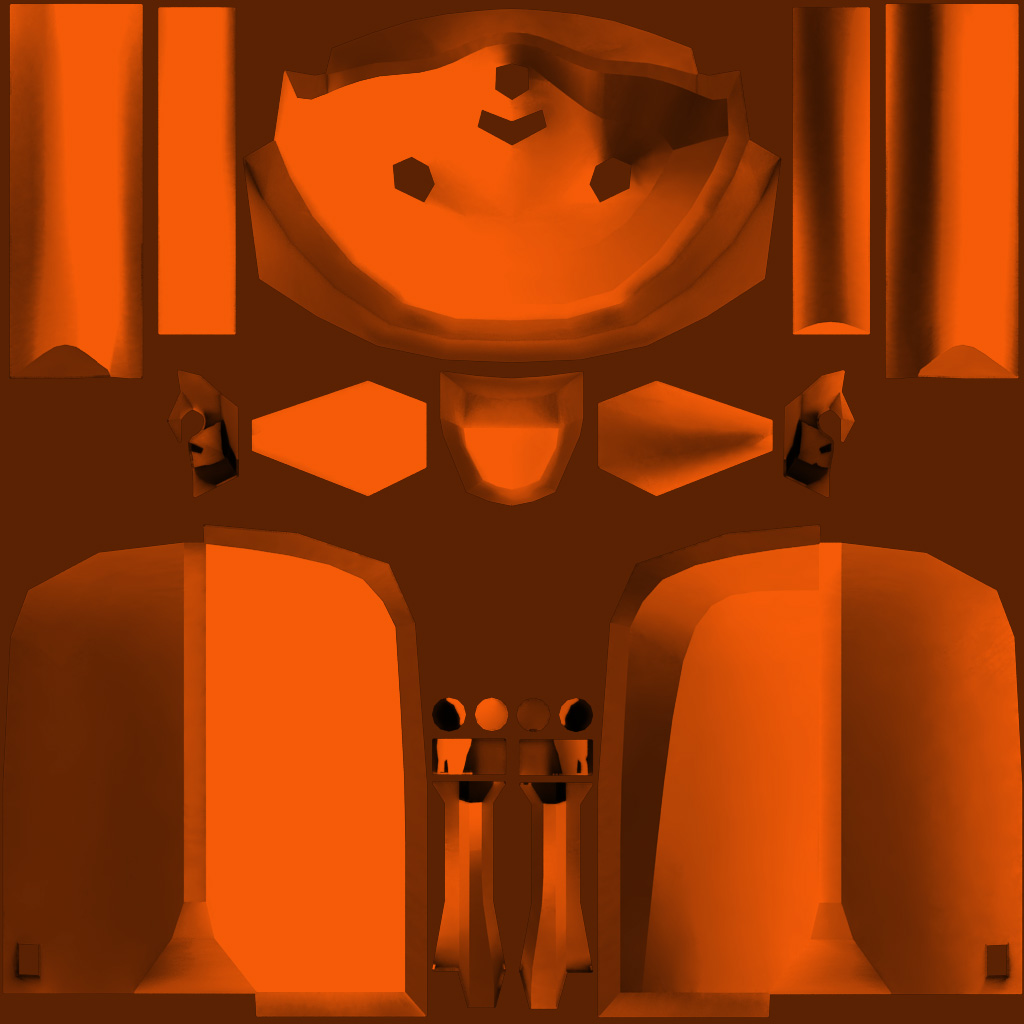
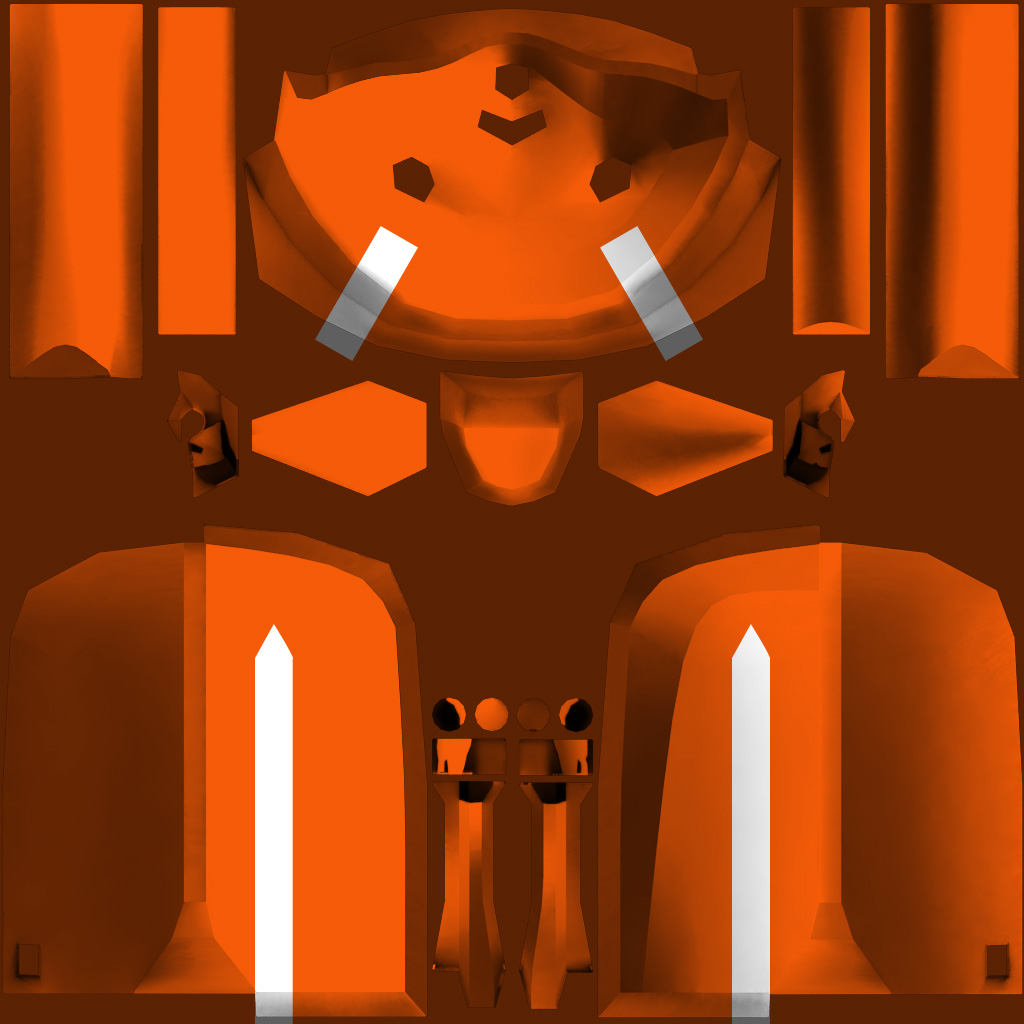
up

diff --git a/js/v3d.js b/js/v3d.js
@@ -115,7 +115,7 @@ V3D.View.prototype = {
 	    mats['c3'] = new V3D.Shader(img, 0x43B8CC);//new THREE.MeshBasicMaterial( { color:0x43B8CC, name:'c3' } );
 	    mats['c4'] = new V3D.Shader(img, 0x059BB5);//new THREE.MeshBasicMaterial( { color:0x059BB5, name:'c4' } );
 	    mats['c5'] = new V3D.Shader(img, 0xD4D1BE);//new THREE.MeshBasicMaterial( { color:0xD4D1BE, name:'c5' } );
-	    mats['c6'] = new V3D.Shader(img, 0xD4D1BE, this.doubleTexture());//new THREE.MeshBasicMaterial( { map: this.doubleTexture(), name:'c6' } );
+	    mats['c6'] = new V3D.Shader(img, 0xFFFFFF, this.doubleTexture());//new THREE.MeshBasicMaterial( { map: this.doubleTexture(), name:'c6' } );
 
 	    mats['b0'] = new V3D.Shader(img, 0x606060, null, true, true);
 	    mats['b1'] = new V3D.Shader(img, 0x606060, null, true, false);
@@ -665,9 +665,10 @@ V3D.Spherical = {
             'if(useMap == 1.){',
             	'vec3 mapping = texture2D( map, vU ).rgb;',
                 'base *= mapping;',
-            '} else {',
-                'base *= color;',
             '}',
+            //'} else {',
+                'base *= color;',
+            //'}',
 
             'gl_FragColor = vec4( base, opacity );',
 

diff --git a/demos/demo_3.js b/demos/demo_3.js
@@ -36,12 +36,8 @@ function initObject(){
 	var mat = v.mats.b0;
 	var mat2 = v.mats.b1;
 	var matC1 = v.mats.bc1;
-	var tx = pool.getTexture('beetle_a');
-	tx.repeat.set( 1, 1 ); 
-    tx.wrapS = tx.wrapT = THREE.RepeatWrapping;
-    tx.needsUpdate = true;
 
-	var matC2 = new V3D.Shader(v.img, 0xFF6060, tx, false, false);//v.mats.bc2;
+	var matC2 = new V3D.Shader(v.img, 0xFFFFFF, pool.getTexture('beetle_a'), false, false);//v.mats.bc2;0xf55b08
 	var matEye = v.mats.beye;
 	var matPalm = v.mats.b2;
 
